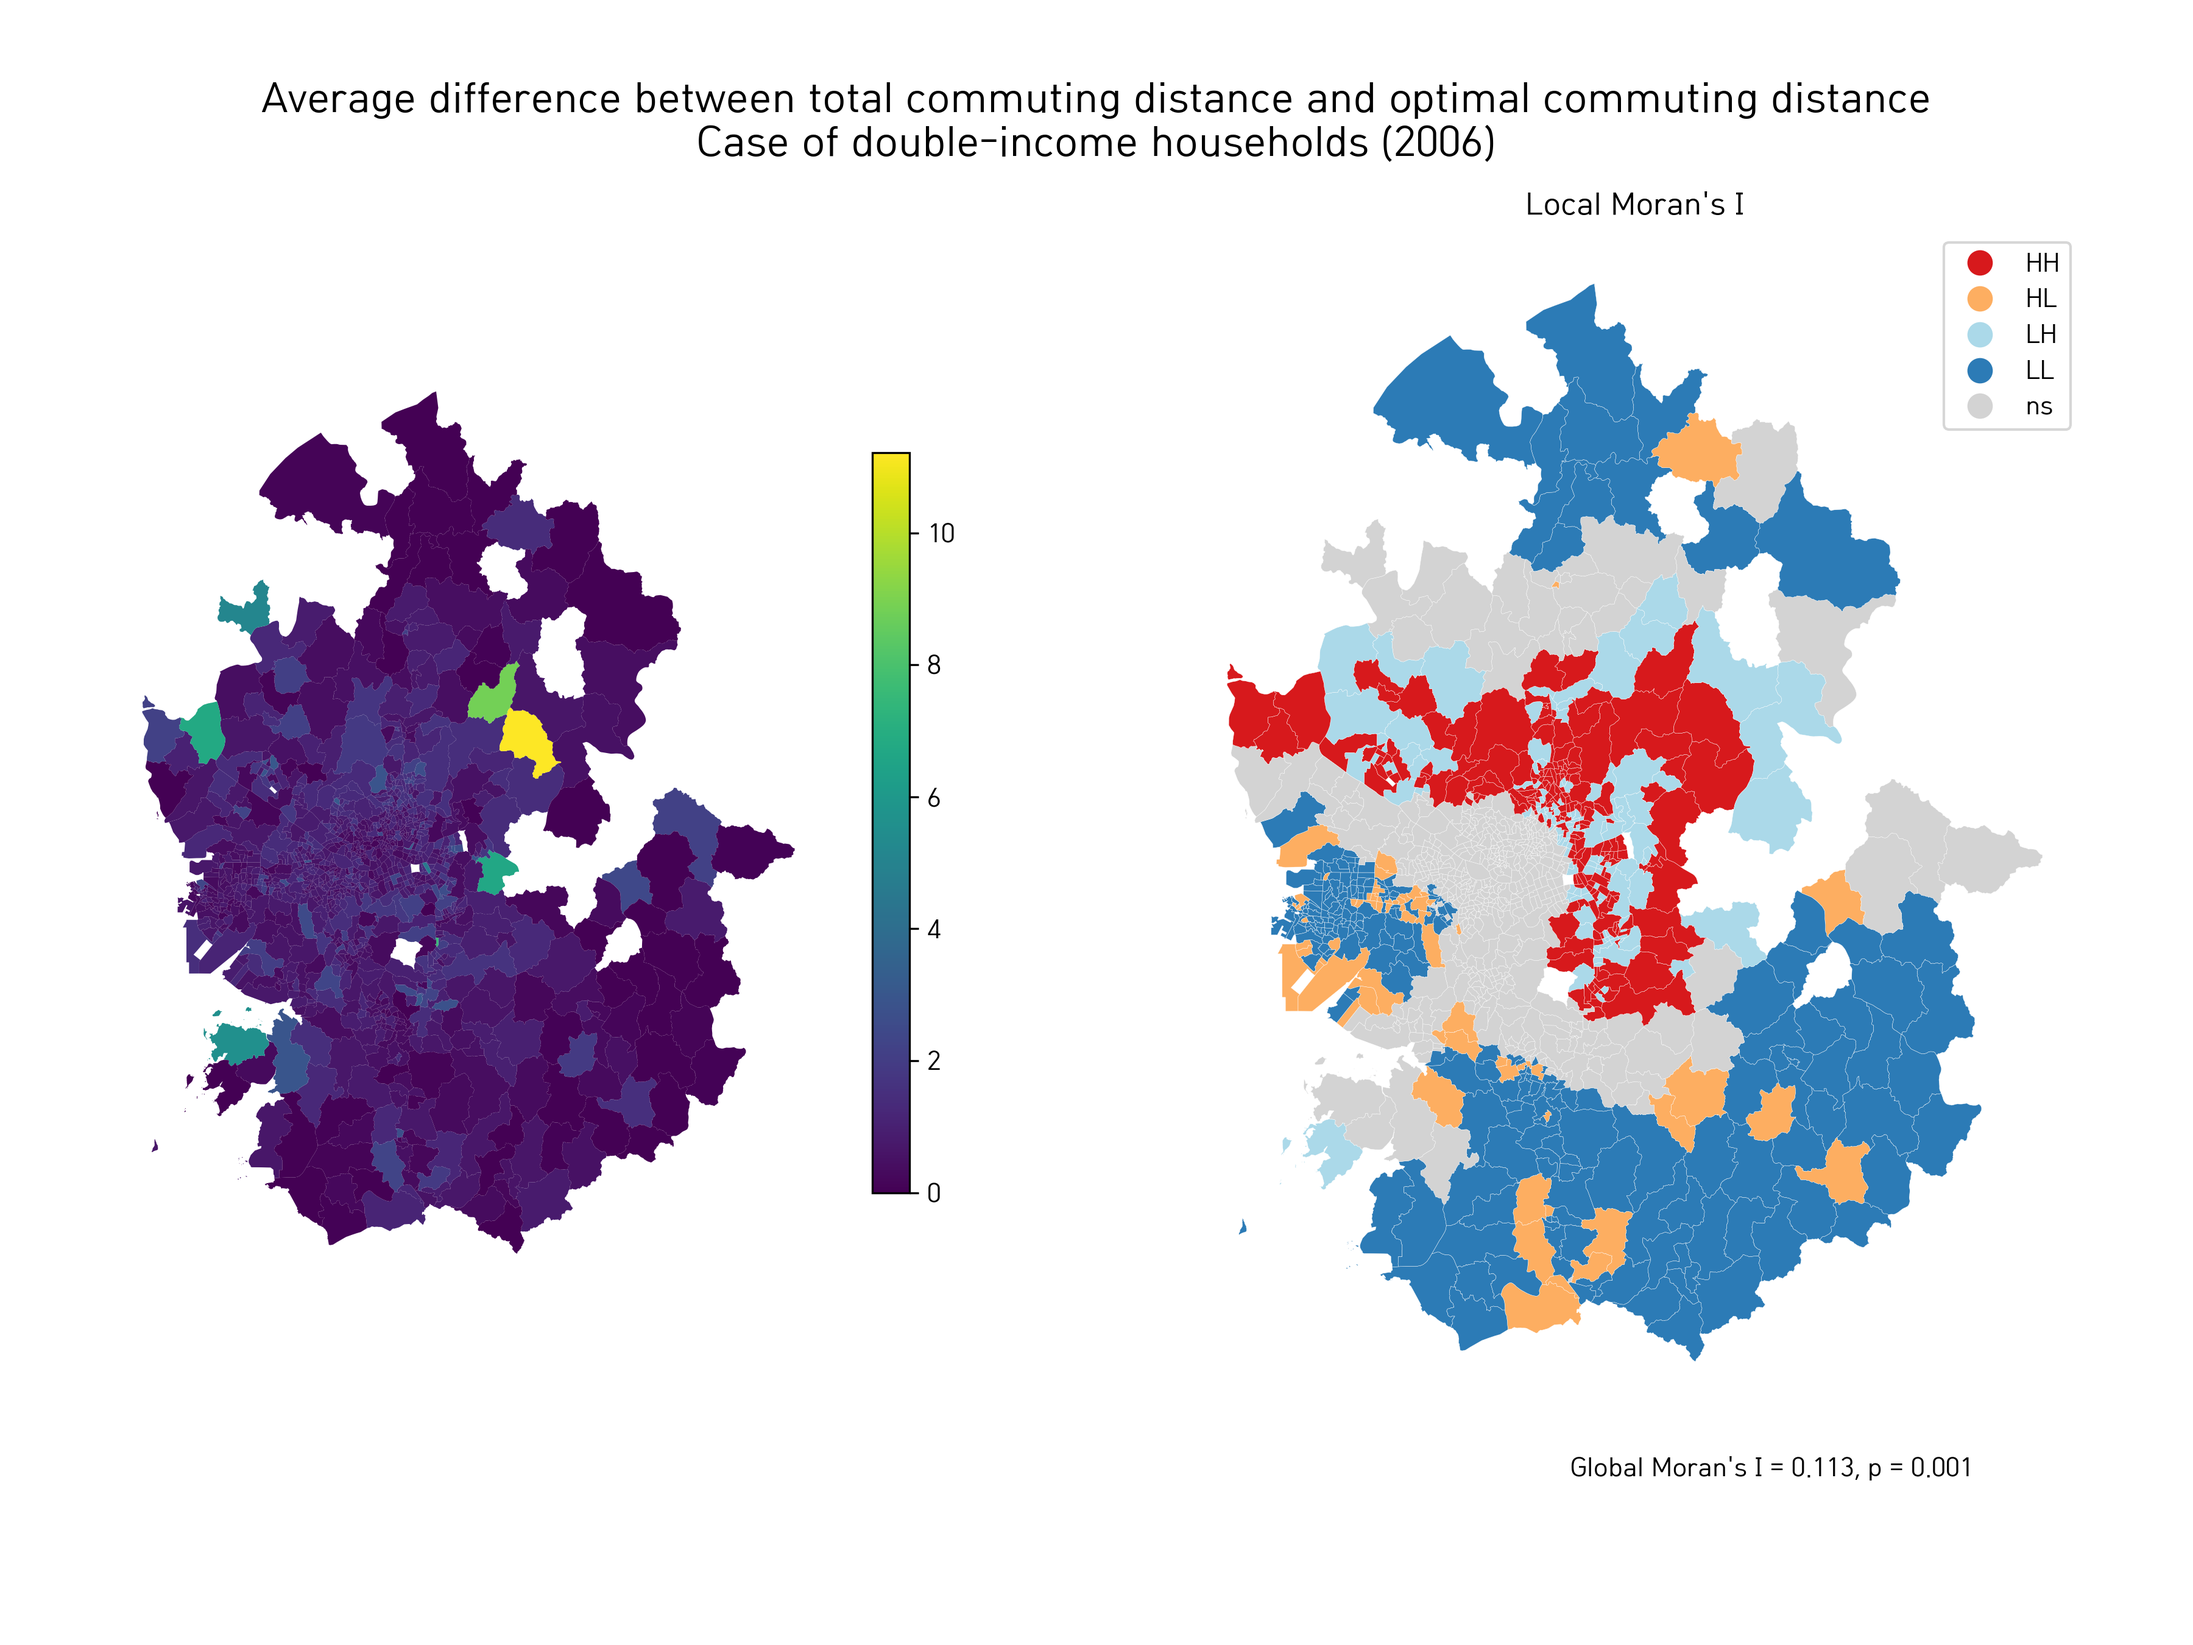
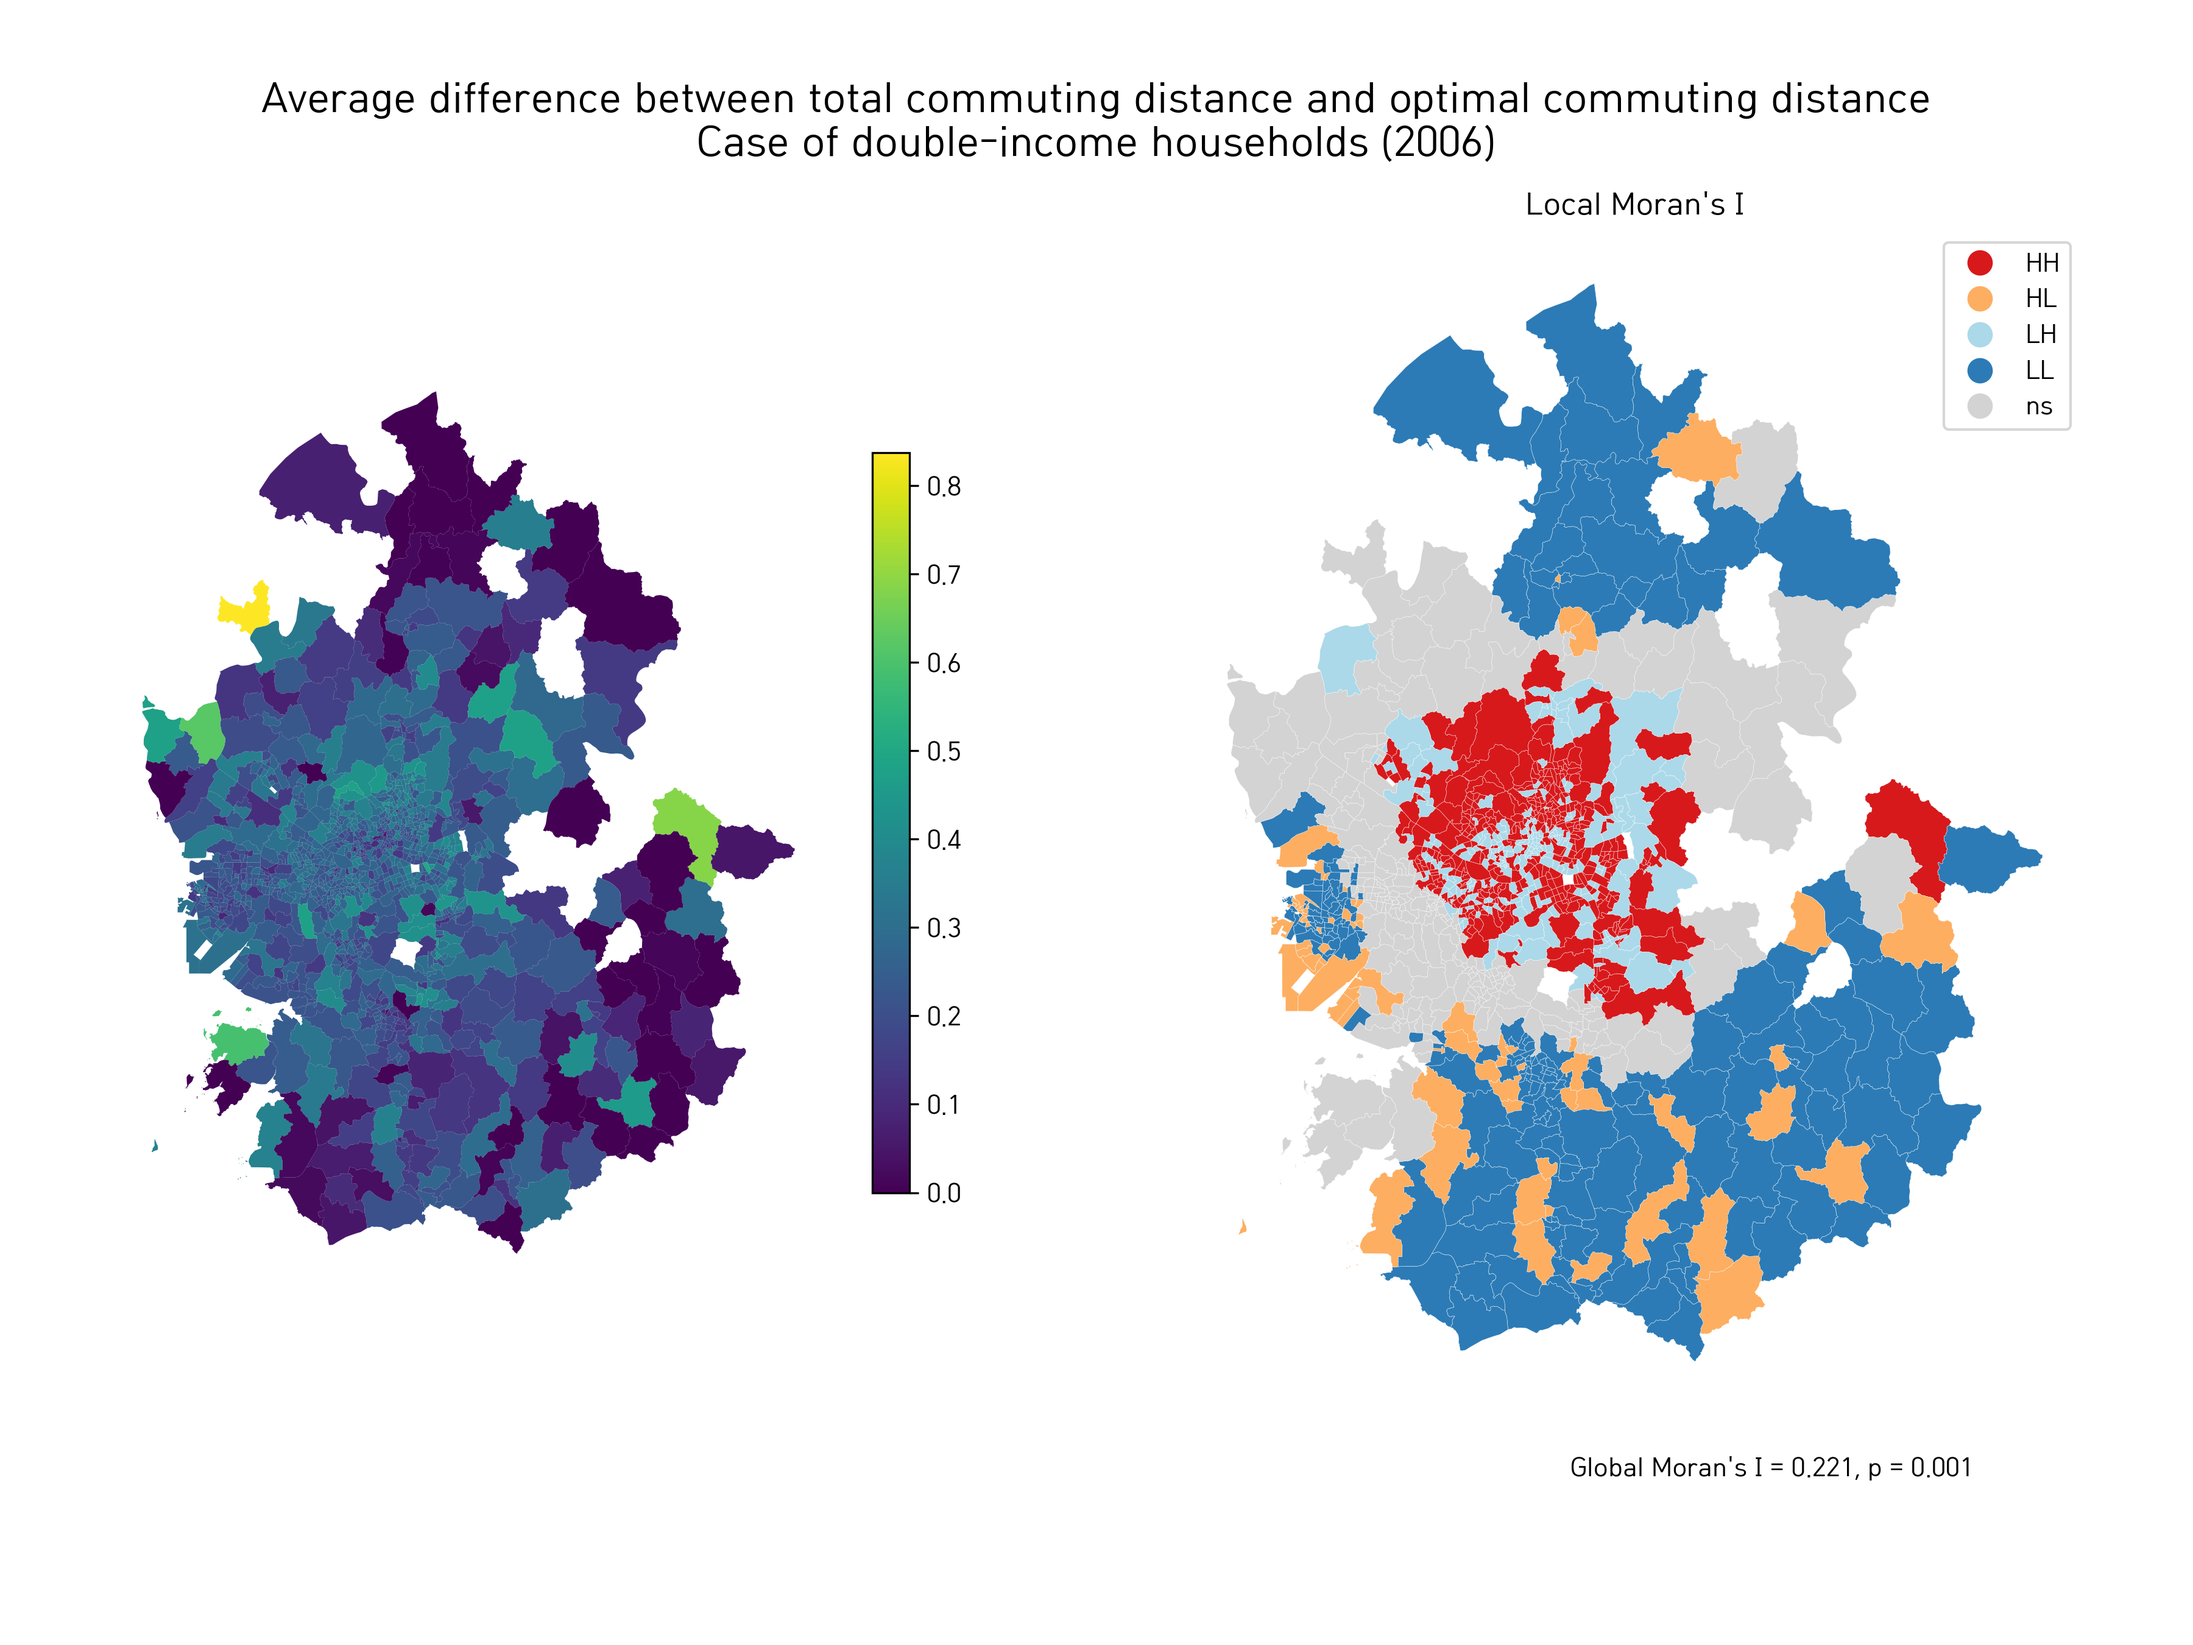
Modified: formula for calculating proportion

diff --git a/main.py b/main.py
@@ -253,7 +253,7 @@ def calcCommDiff(t_year, is_p):
     # Can't divide by 0
     minCommDist = minCommDist[minCommDist['minDist'].notna()]
     minCommDist = minCommDist[minCommDist['minDist'] != 0]
-    minCommDist['diffDist_p'] = minCommDist['diffDist'] / minCommDist['minDist']
+    minCommDist['diffDist_p'] = minCommDist['diffDist'] / minCommDist['sumDist']
 
     if is_p == True:
         plot_var = 'diffDist_p'
@@ -312,4 +312,4 @@ def calcCommDiff(t_year, is_p):
 
 
 for t_year in tqdm(['2006', '2010', '2016']):
-    calcCommDiff(t_year, False)
+    calcCommDiff(t_year, True)
